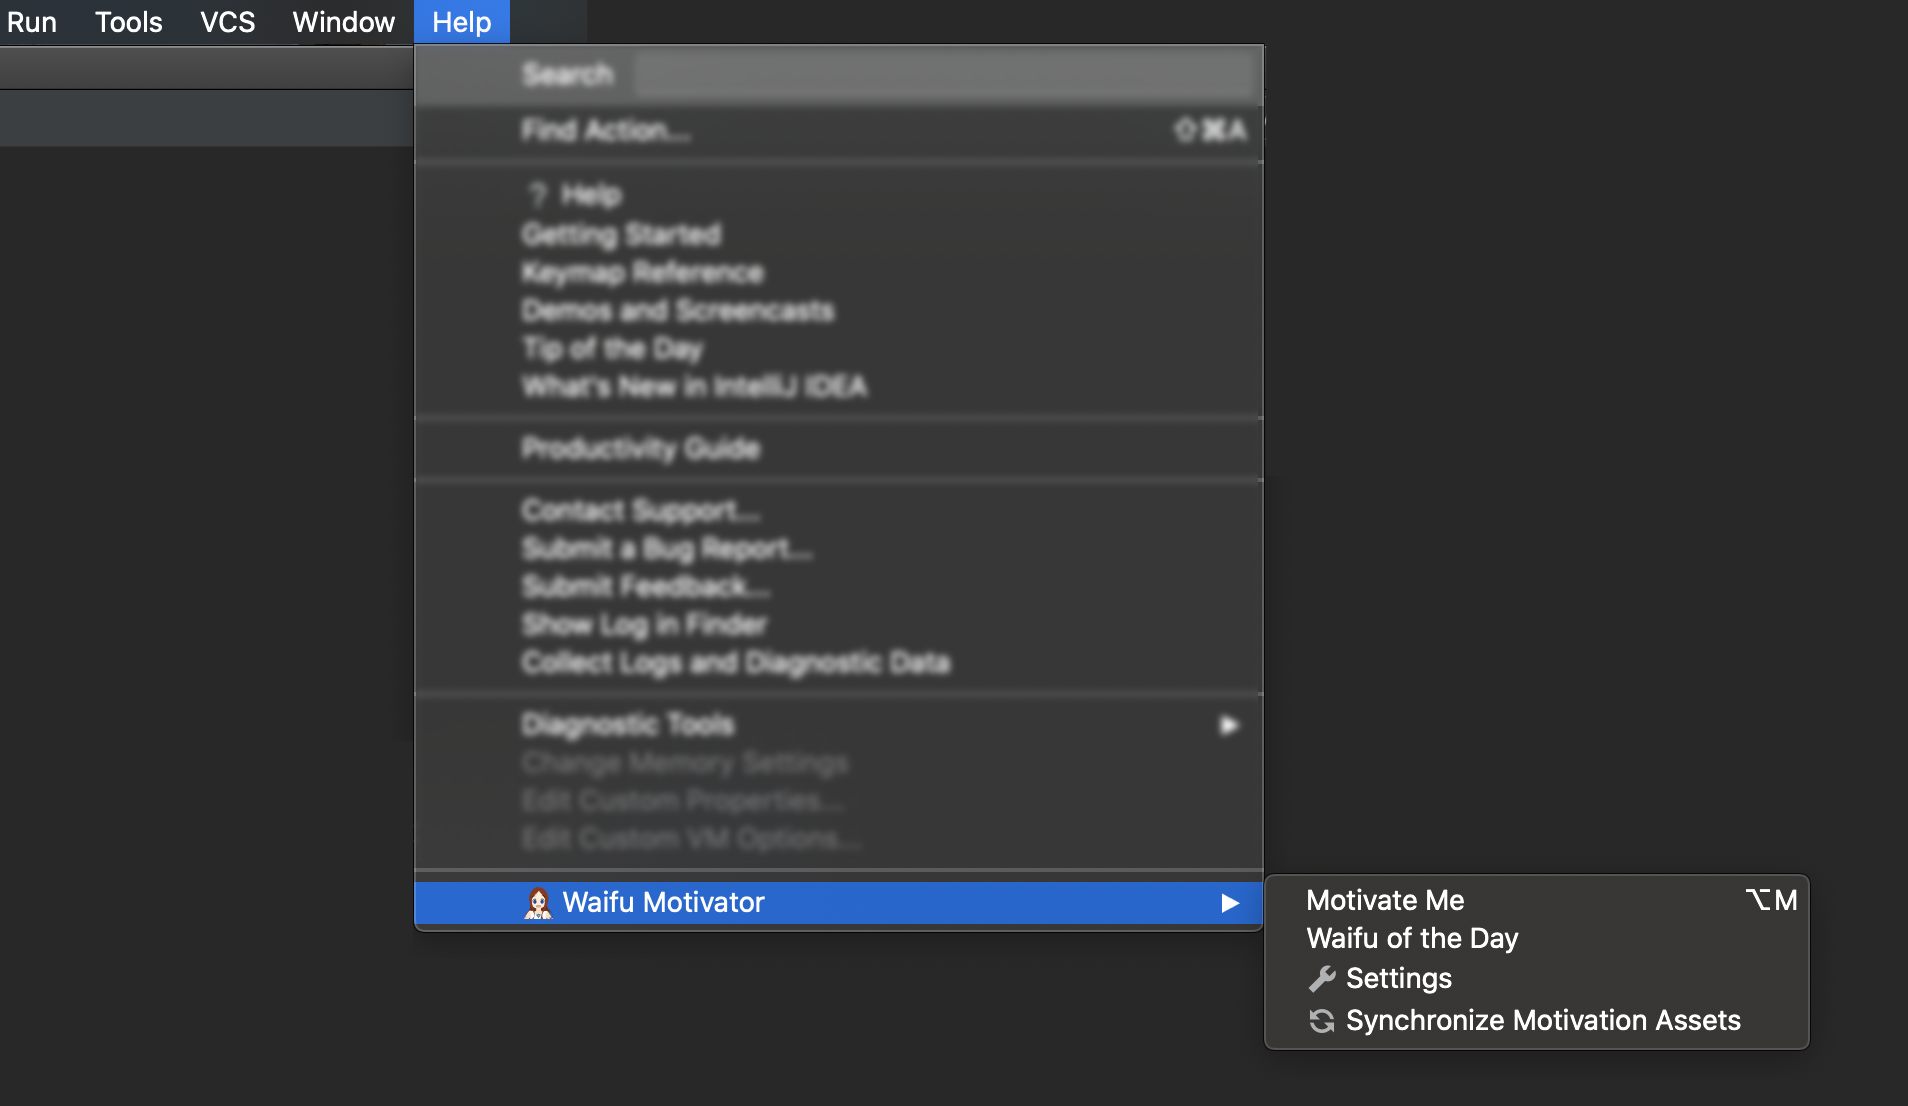
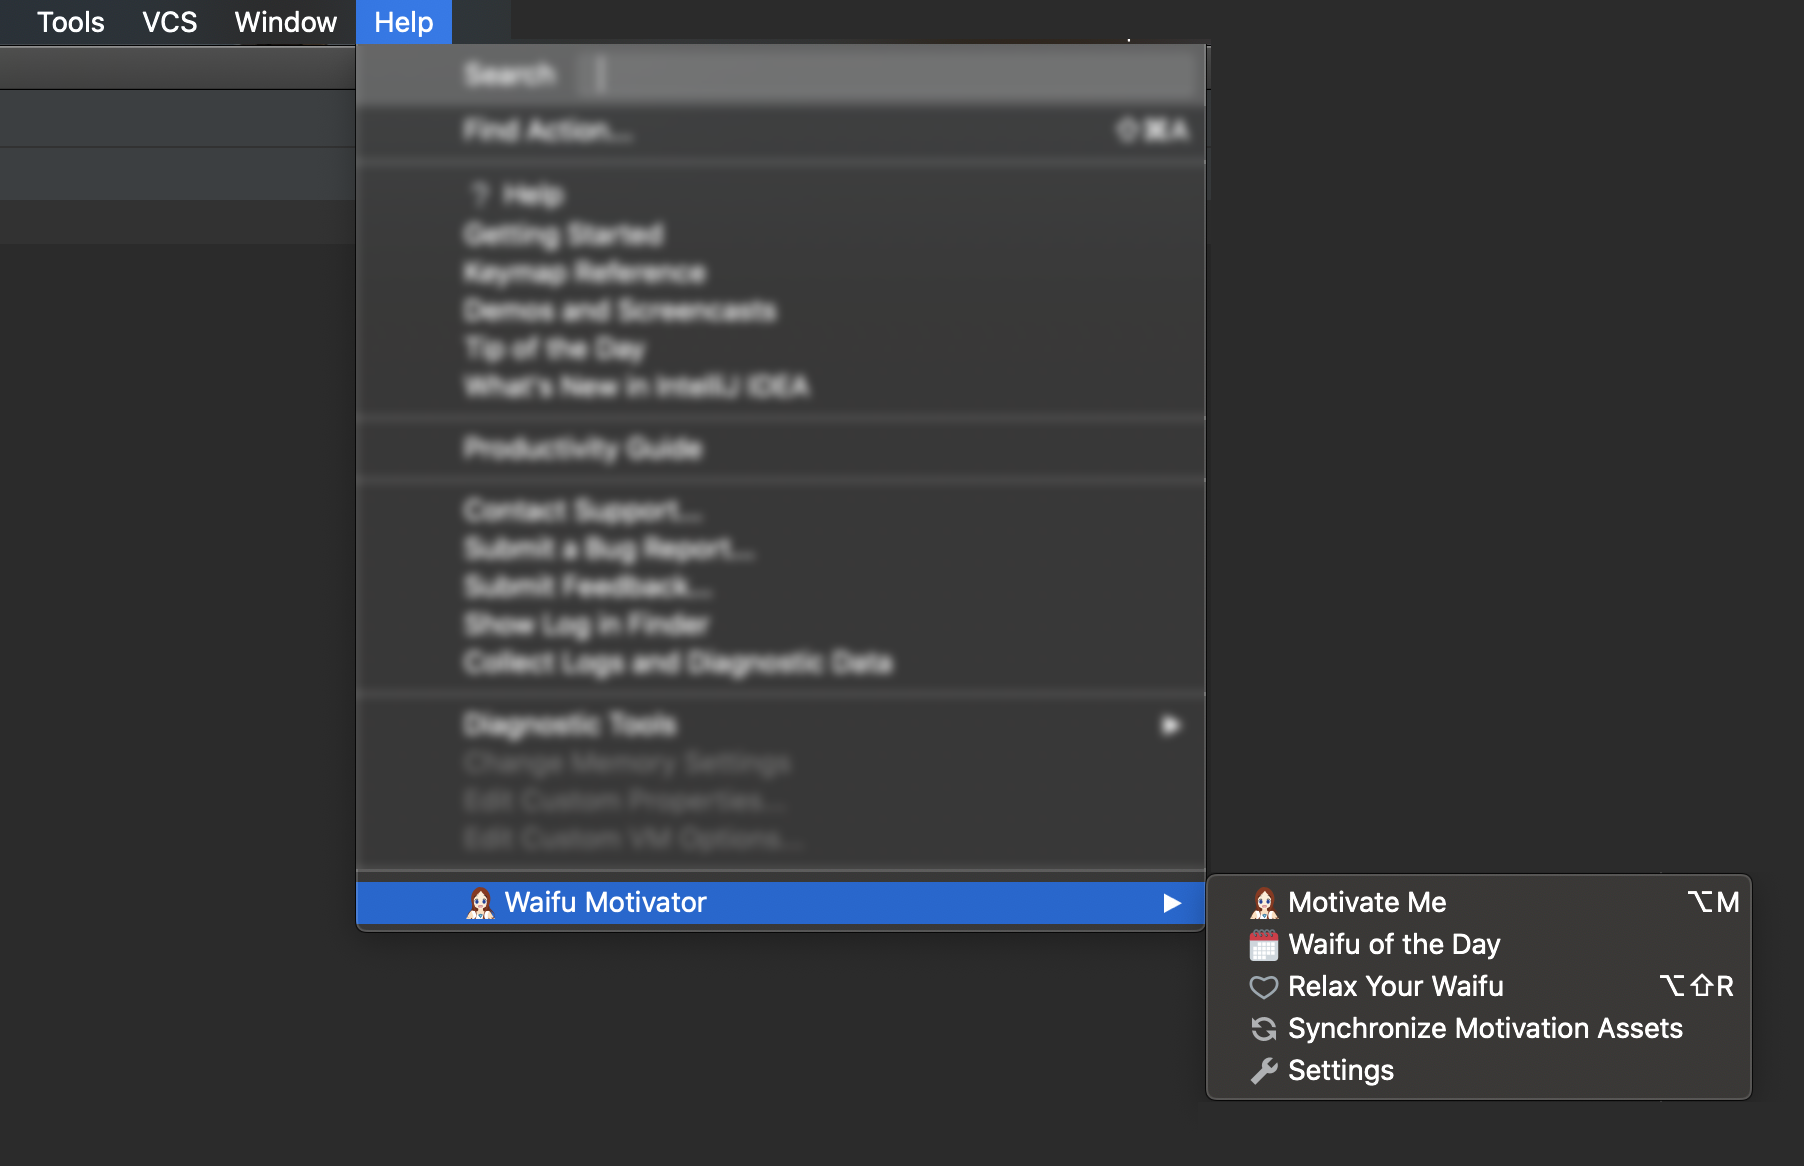
chore: v1.4 release documentation

Changed region(s): [[0.0, 0.0, 0.9623, 0.953], [0.9313, 0.7378, 0.9623, 0.8608]]

diff --git a/src/main/java/zd/zero/waifu/motivator/plugin/onboarding/UpdateNotification.kt b/src/main/java/zd/zero/waifu/motivator/plugin/onboarding/UpdateNotification.kt
@@ -19,11 +19,9 @@ val UPDATE_MESSAGE: String =
     """
       What's New?<br>
       <ul>
-        <li>Added reactions to: exit code, build, and idle events.</li>
-        <li>Added configurable personality to your virtual companion.</li>
-        <li>Enabled offline mode.</li>
-        <li>Re-organized settings menu</li>
-        <li>Fixed various bugs.</li>
+        <li>Waifu alert with context</li>
+        <li>Preferred Waifus!</li>
+        <li>Improved mood behavior</li>
       </ul>
       <br>Please see the <a href="https://github.com/waifu-motivator/waifu-motivator-plugin/blob/master/docs/CHANGELOG.md">changelog</a> for more details.
       <br><br>

diff --git a/README.md b/README.md
@@ -104,15 +104,22 @@ This only happens when you have been triggering events in the frustration state 
 Not every person wants their *Waifu* to get frustrated.
 Thankfully, you have the ability to disable this part of her personality, by preventing her from ever being frustrated in the first place! 😄
 
+### Waifu Mood
+You can check your *Waifu's* current mood at the status bar.
+
+![Waifu Mood](screenshots/waifu_mood.png)
+
+*You can of course disable it from the settings*
+
 ## Motivation On-demand
 Whenever you feel demotivated on your task, you can request motivation from your *Waifu*.
 Your companion will randomly play a sound and show a *Waifu* to cheer you up.
-You can invoke it on `Help | Waifu Motivator | Motivate Me` or the shortcut key with (`alt + M` for Windows/Linux and `option + M` for MacOs).
+You can invoke it on `Help | Waifu Motivator | Motivate Me` or the shortcut key with `alt + M` for Windows/Linux and `option + M` for MacOs.
 
 ![Motivate Me Demo](screenshots/motivate_me_demo.gif)
 
 ## Waifu Toolbar and Actions
-When you feel like commanding your waifu, there are multiple actions she can do for you! You can access it from the toolbar.
+When you feel like commanding your waifu, there are multiple actions she can do for you! You can access it from the toolbar. (`Help | Waifu Motivator`)
 
 <p align="center">
   <img src="screenshots/waifu_toolbar.png" alt="Waifu Toolbar and Actions">
@@ -128,6 +135,14 @@ Of course, you can also invoke it with `Find Action...` (`ctrl + shift + A` for 
 
 Take your *Waifu* with you as you go.
 You have the ability to write code off the grid and still get motivation events!
+
+## Just Your Waifu
+
+Choose the *Waifu* you'd like a priority to always show up! You can do it from the settings. (`Settings | Waifu Motivator | Main`)
+
+<p align="center">
+  <img src="screenshots/just_your_waifu.png" alt="Just Your Waifu">
+</p>
 
 ## Plugin Settings
 

diff --git a/docs/CHANGELOG.md b/docs/CHANGELOG.md
@@ -1,5 +1,27 @@
 # Changelog
 
+## [v1.4](https://github.com/waifu-motivator/waifu-motivator-plugin/releases/tag/v1.4)
+#### 08/11/2020
+
+✨ Features:
+
+* [WMP-235](https://github.com/waifu-motivator/waifu-motivator-plugin/issues/235) Relax, it's not that big of a deal
+* [WMP-193](https://github.com/waifu-motivator/waifu-motivator-plugin/issues/193) Frustration Cool down over time
+* [WMP-174](https://github.com/waifu-motivator/waifu-motivator-plugin/issues/174) Just your Waifu
+* [WMP-142](https://github.com/waifu-motivator/waifu-motivator-plugin/issues/142) Alert Motivation Context
+* [WMP-248](https://github.com/waifu-motivator/waifu-motivator-plugin/issues/248) Support for Intellij IDEA 2021.1
+
+🙌 Improvements:
+
+* [WMP-241](https://github.com/waifu-motivator/waifu-motivator-plugin/issues/241) Enhanced plugin installation experience for new users!
+* [WMP-251](https://github.com/waifu-motivator/waifu-motivator-plugin/issues/251) Improved toolbar menus
+
+🐛 Bug Fixes:
+
+* [WMP-229](https://github.com/waifu-motivator/waifu-motivator-plugin/issues/229) Issue writing local asset checks on mult-thread
+* [WMP-224](https://github.com/waifu-motivator/waifu-motivator-plugin/issues/224) Waifu of the Day doesn't show up on a fresh install
+
+
 ## [v1.3](https://github.com/waifu-motivator/waifu-motivator-plugin/releases/tag/v1.3)
 #### 27/09/2020
 
